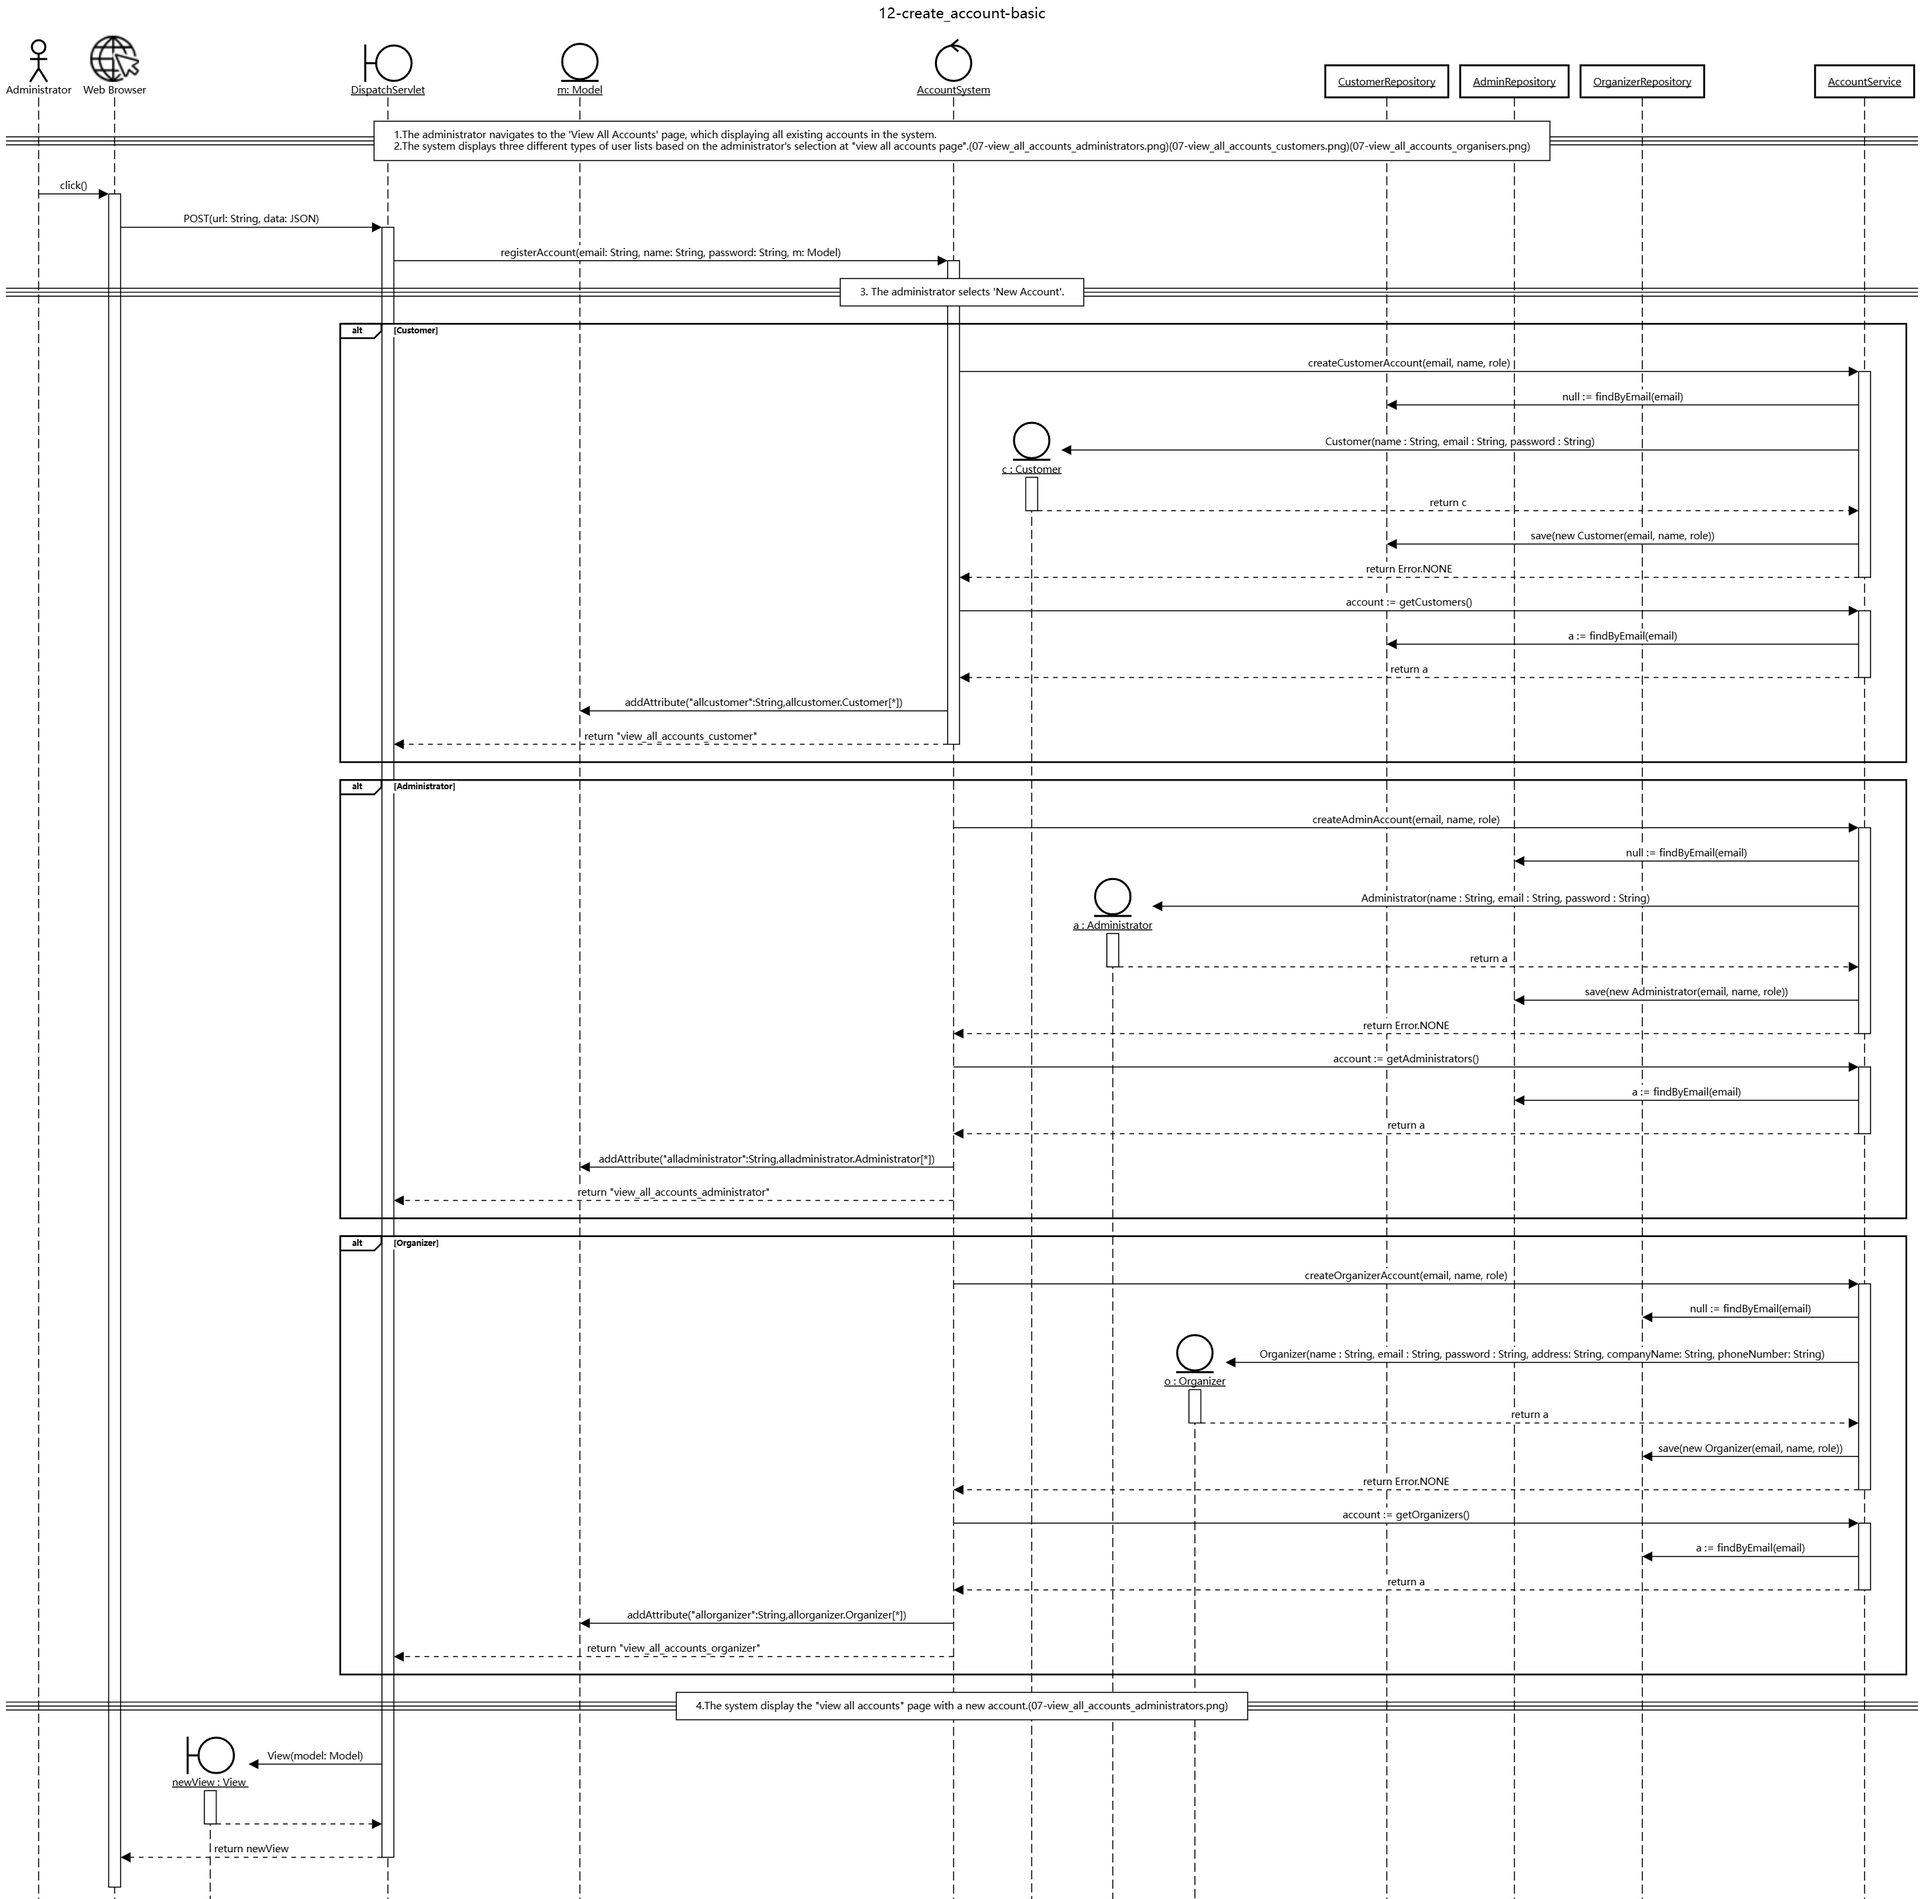
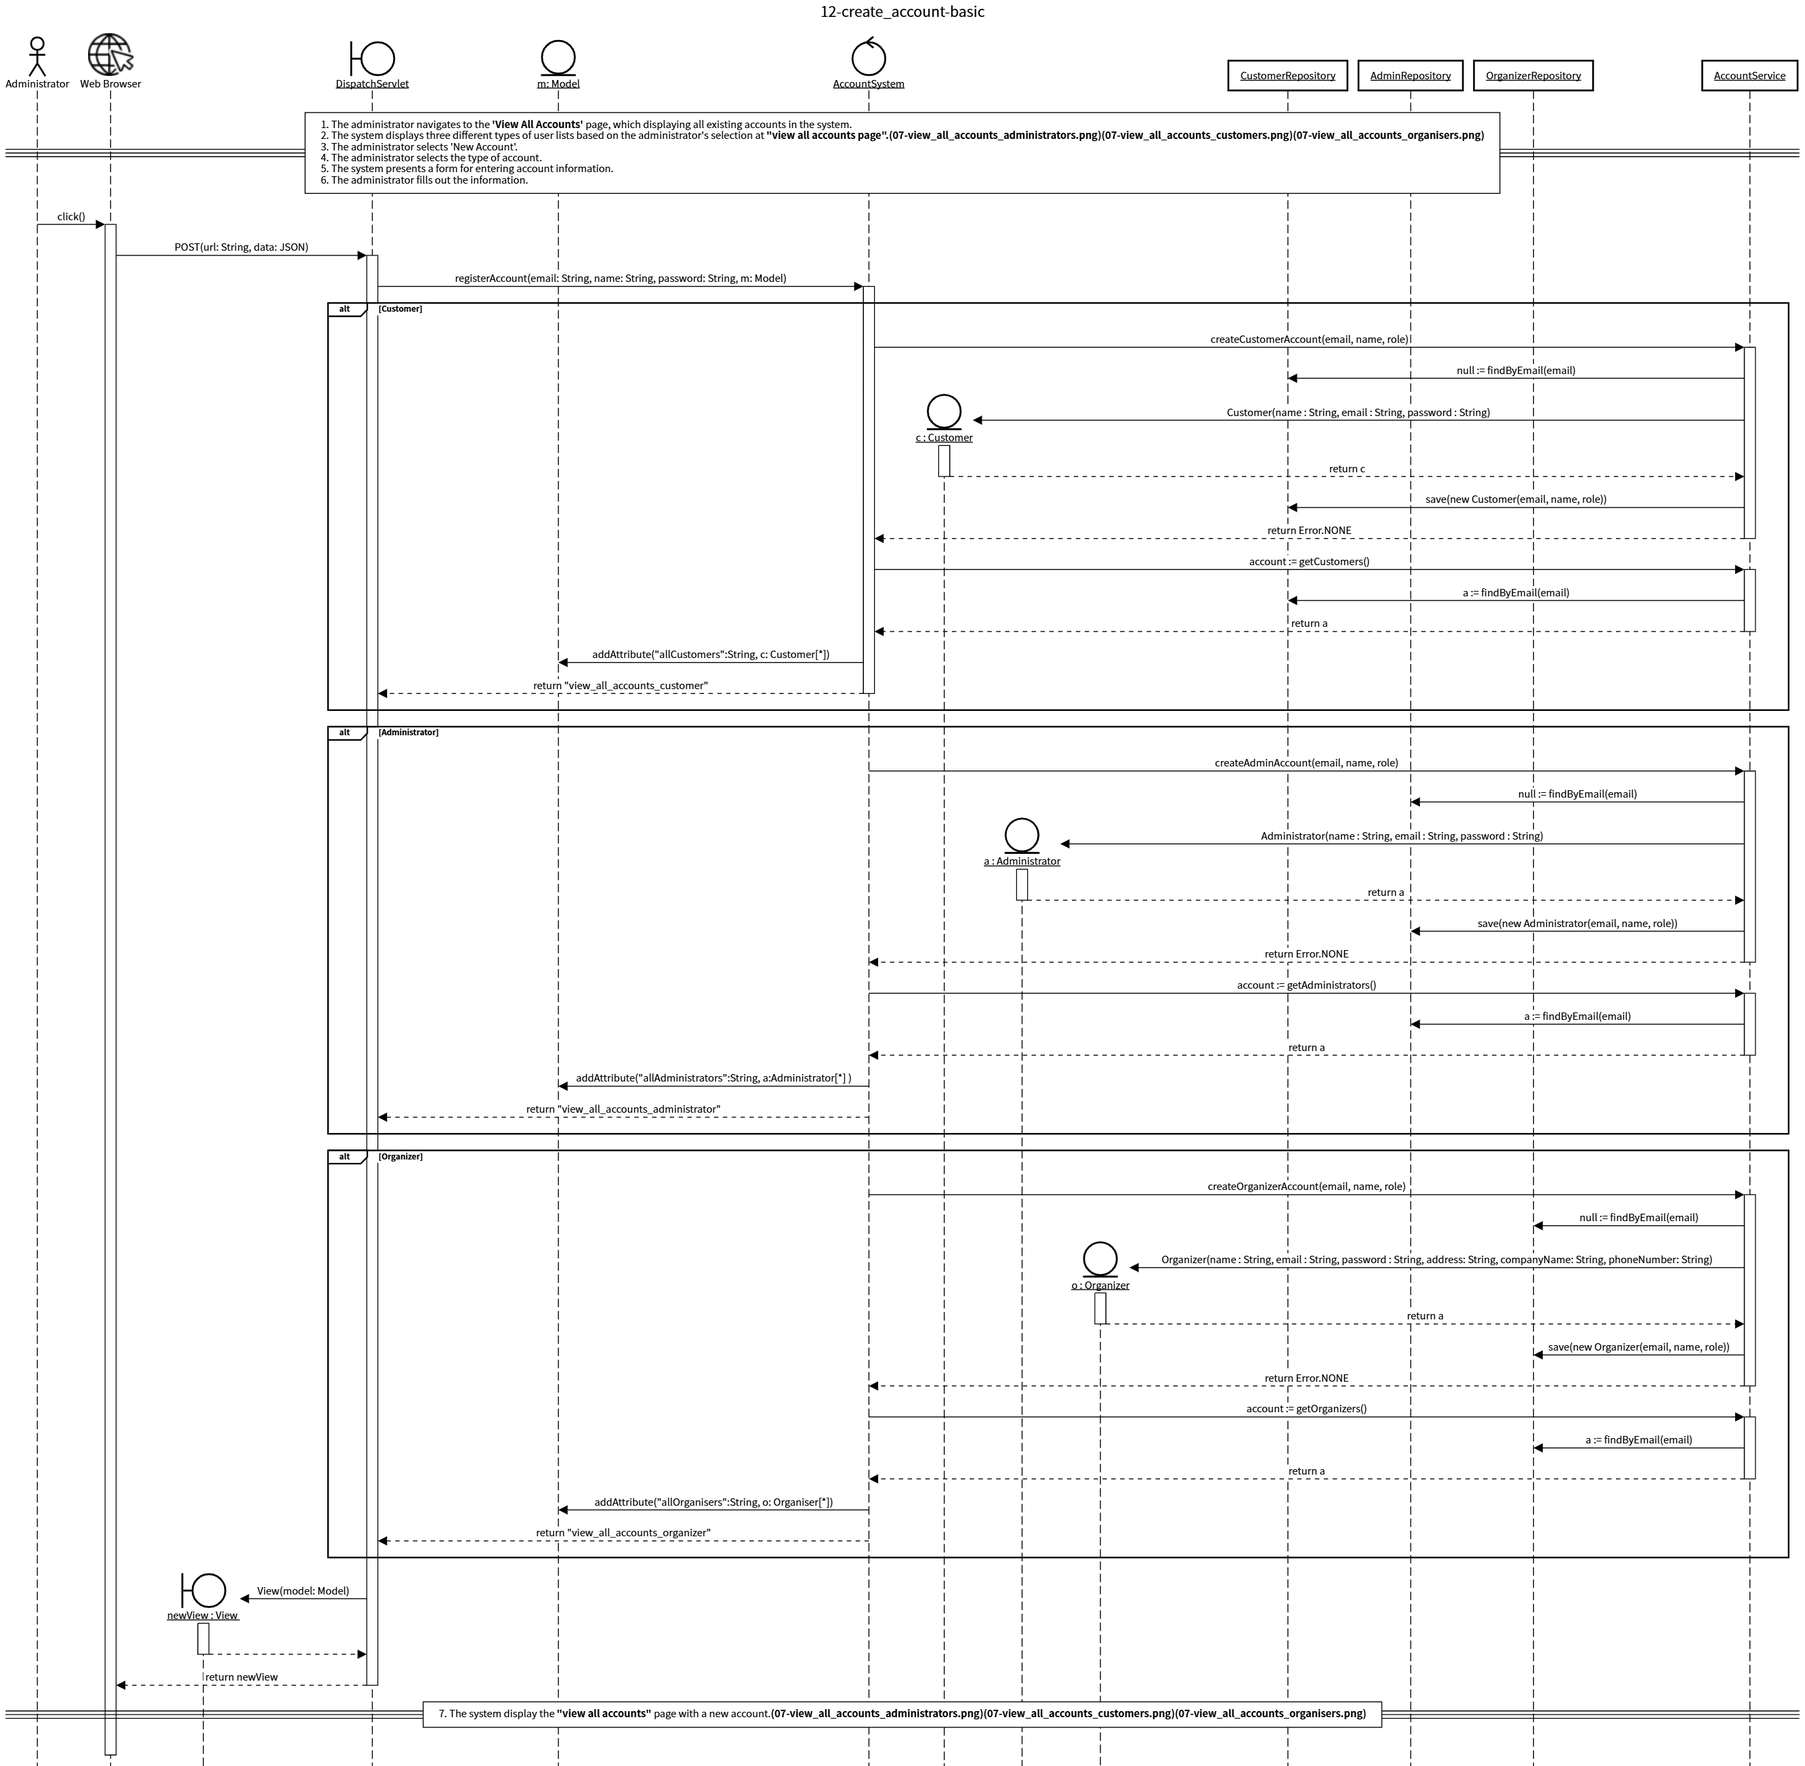
update sequences diagram (12-30).

diff --git a/03-design/usecases/docs/15-delete_account.md b/03-design/usecases/docs/15-delete_account.md
@@ -4,10 +4,11 @@
 
 #### Course of Events
 
-- The administrator selects an account to delete on view all accounts page(7-view_all_accounts.png).
+- The system displays three different types of user lists based on the administrator's selection at "view all accounts page".(07-view_all_accounts_administrators.png)(07-view_all_accounts_customers.png)(07-view_all_accounts_organisers.png)
+- The administrator selects an account from one of the lists displaying all accounts of that type and chooses to delete it.
 - The system asks the administrator to confirm.
 - The administrator selects **Yes**.
-- The system update the view all accounts page(7-view_all_accounts.png) with this account deleted.
+- The system update the view all accounts page with this account deleted.(07-view_all_accounts_administrators.png)(07-view_all_accounts_customers.png)(07-view_all_accounts_organisers.png)
 
 ### Sequence Diagram
 
@@ -17,7 +18,8 @@
 
 ### Do Not Delete
 
-- The administrator selects an account to delete on view all accounts page(7-view_all_accounts.png).
+- The system displays three different types of user lists based on the administrator's selection at "view all accounts page".(07-view_all_accounts_administrators.png)(07-view_all_accounts_customers.png)(07-view_all_accounts_organisers.png)
+- The administrator selects an account from one of the lists displaying all accounts of that type and chooses to delete it.
 - The system asks the administrator to confirm.
 - The administrator selects **No**.
 - The system returns to the view all accounts page(7-view_all_accounts.png) with no changes.

diff --git a/03-design/usecases/docs/12-create_account.md b/03-design/usecases/docs/12-create_account.md
@@ -12,14 +12,13 @@
 
 ## Alternate Course of Events-- Duplicate Email Error
 - The administrator navigates to the 'View All Accounts' page, which displaying all existing accounts in the system.
-- The system displays a list of existing accounts.
+- The system displays three different types of user lists based on the administrator's selection at "view all accounts page".(07-view_all_accounts_administrators.png)(07-view_all_accounts_customers.png)(07-view_all_accounts_organisers.png)
 - The administrator selects 'New Account'.
-- The administrator selects the type of account : Administrator.
-- The system presents a form for entering account information (Name, Email, Password).
+- The administrator selects the type of account.
+- The system presents a form for entering account information.
 - The administrator fills out the information.
-- The administrator submits the form using an email that already exists in the system.
 - The system displays an error message indicating that the email is already associated with another account.
-- The system prompts the administrator to use a different email or to edit the existing account instead.
+- The system display the "view all accounts" page with no changes.(07-view_all_accounts_administrators.png)(07-view_all_accounts_customers.png)(07-view_all_accounts_organisers.png)
 
 
 ### Sequence Diagram
